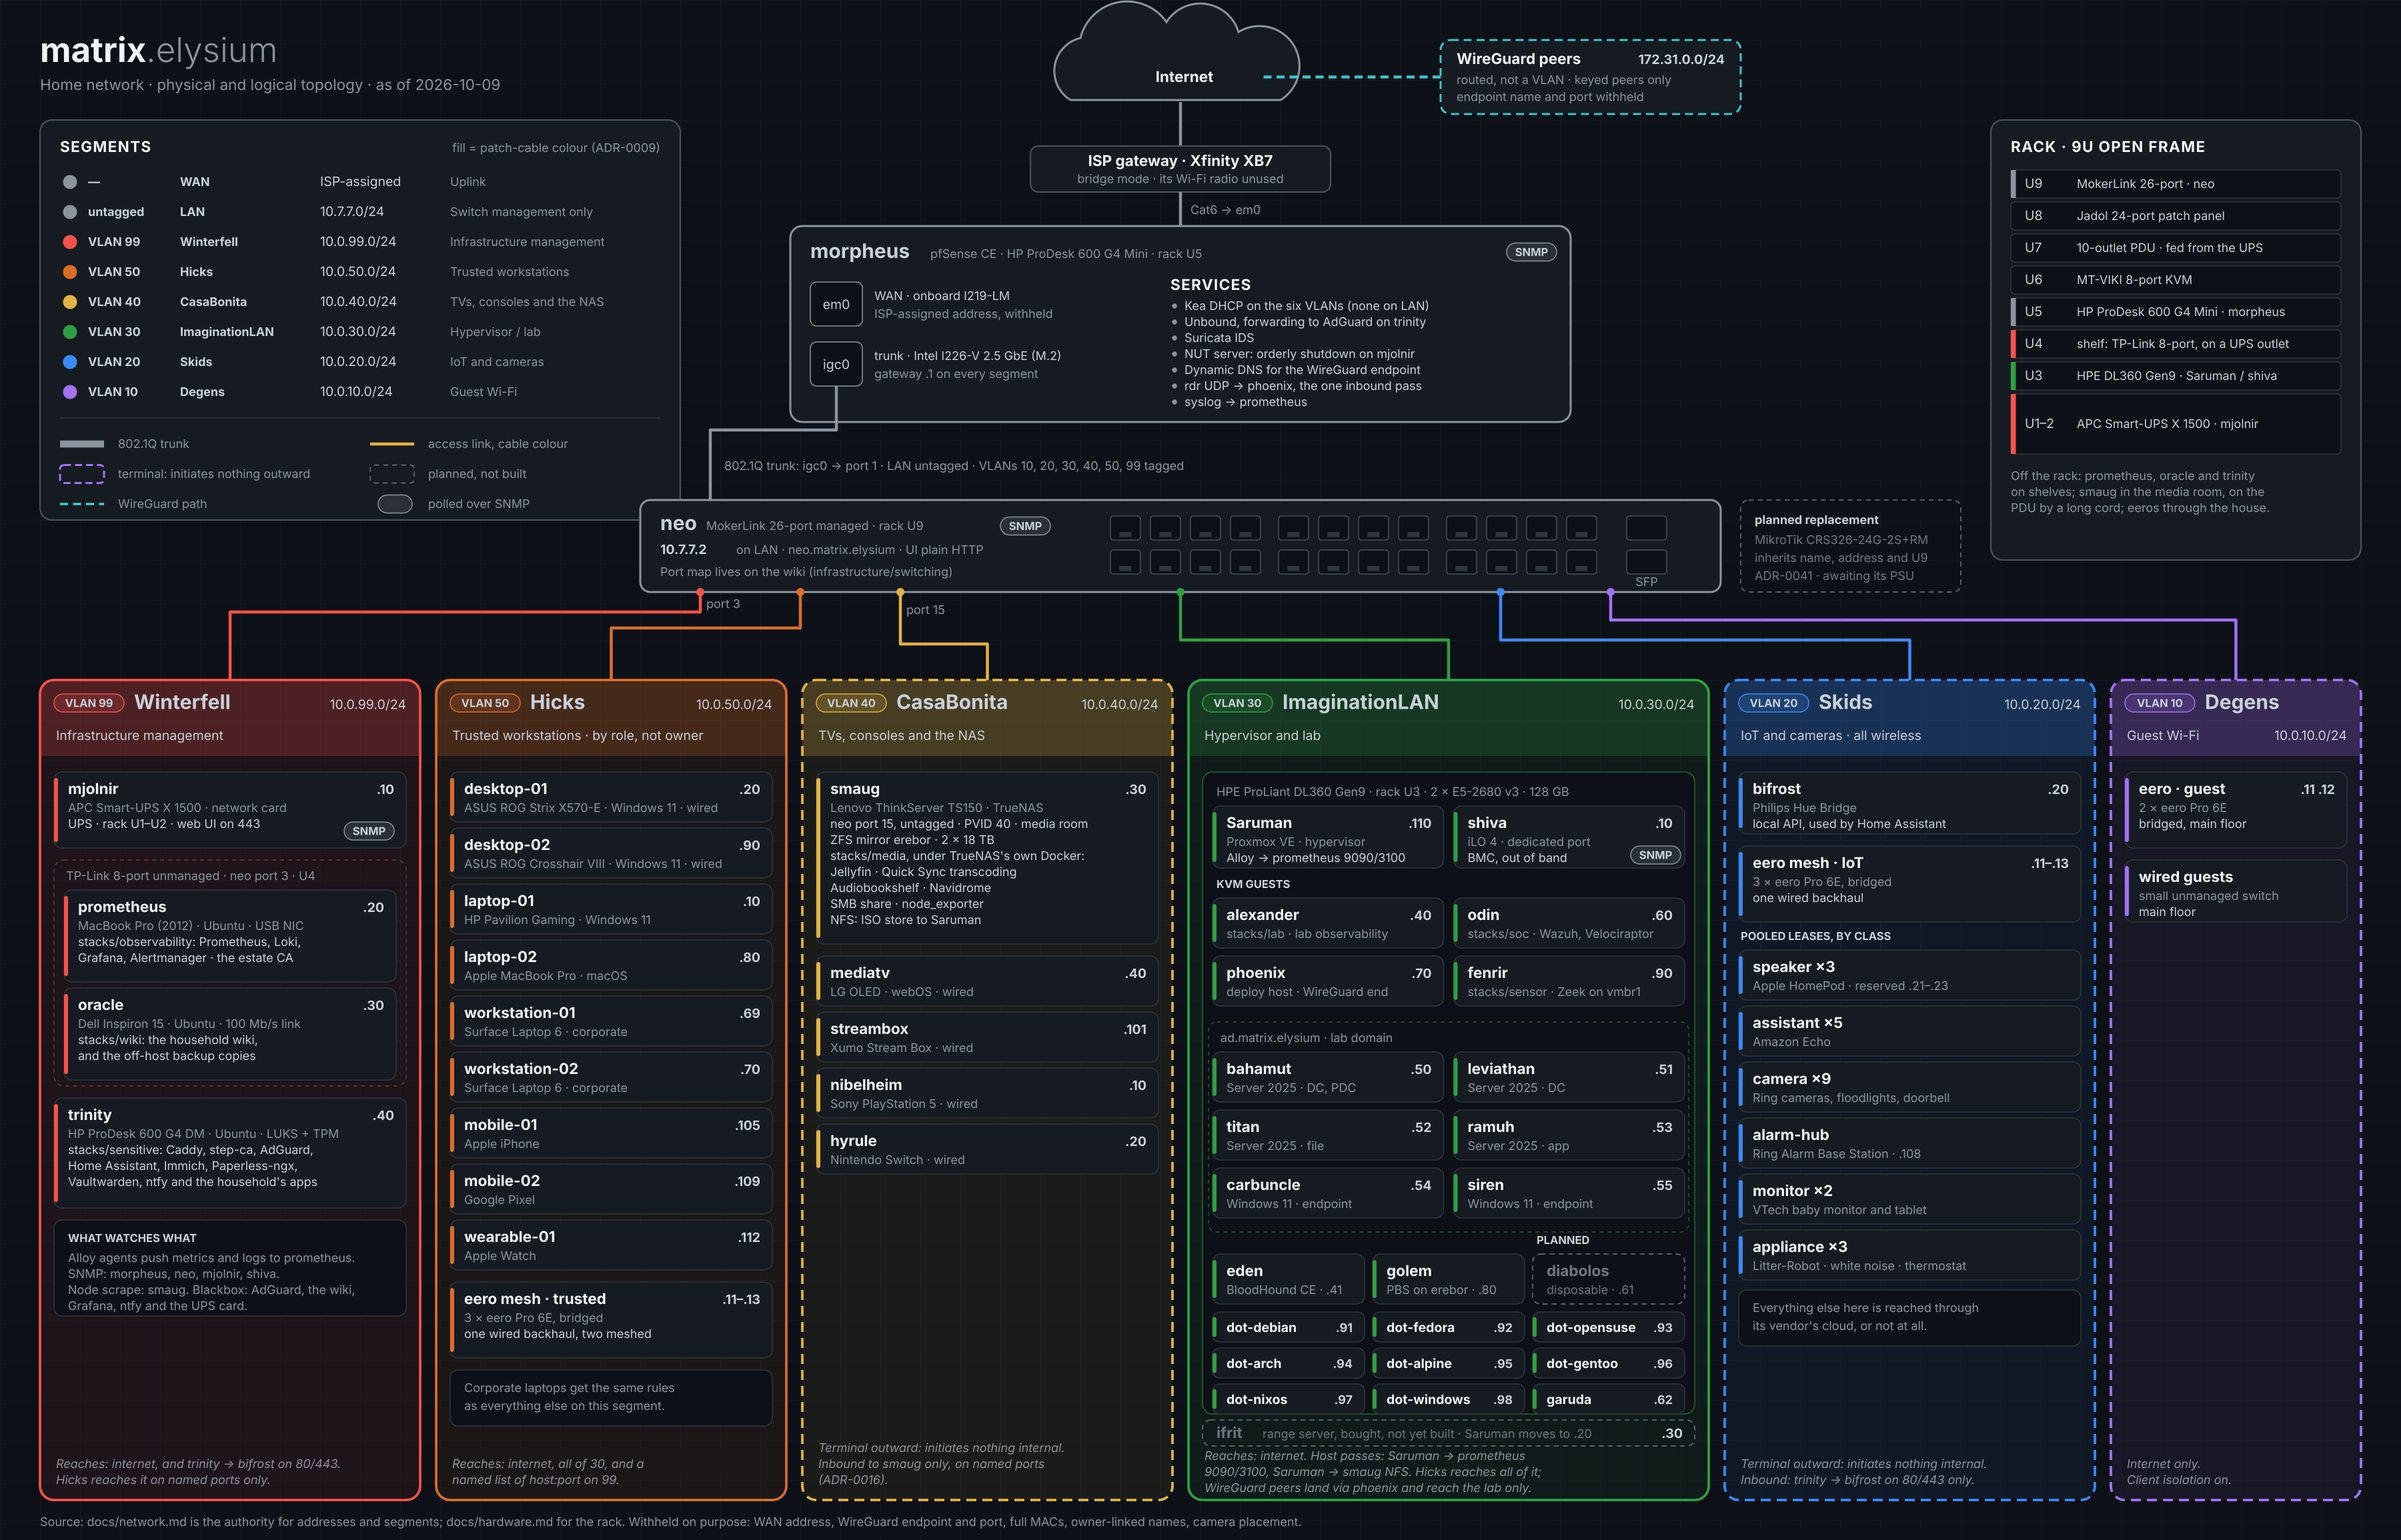
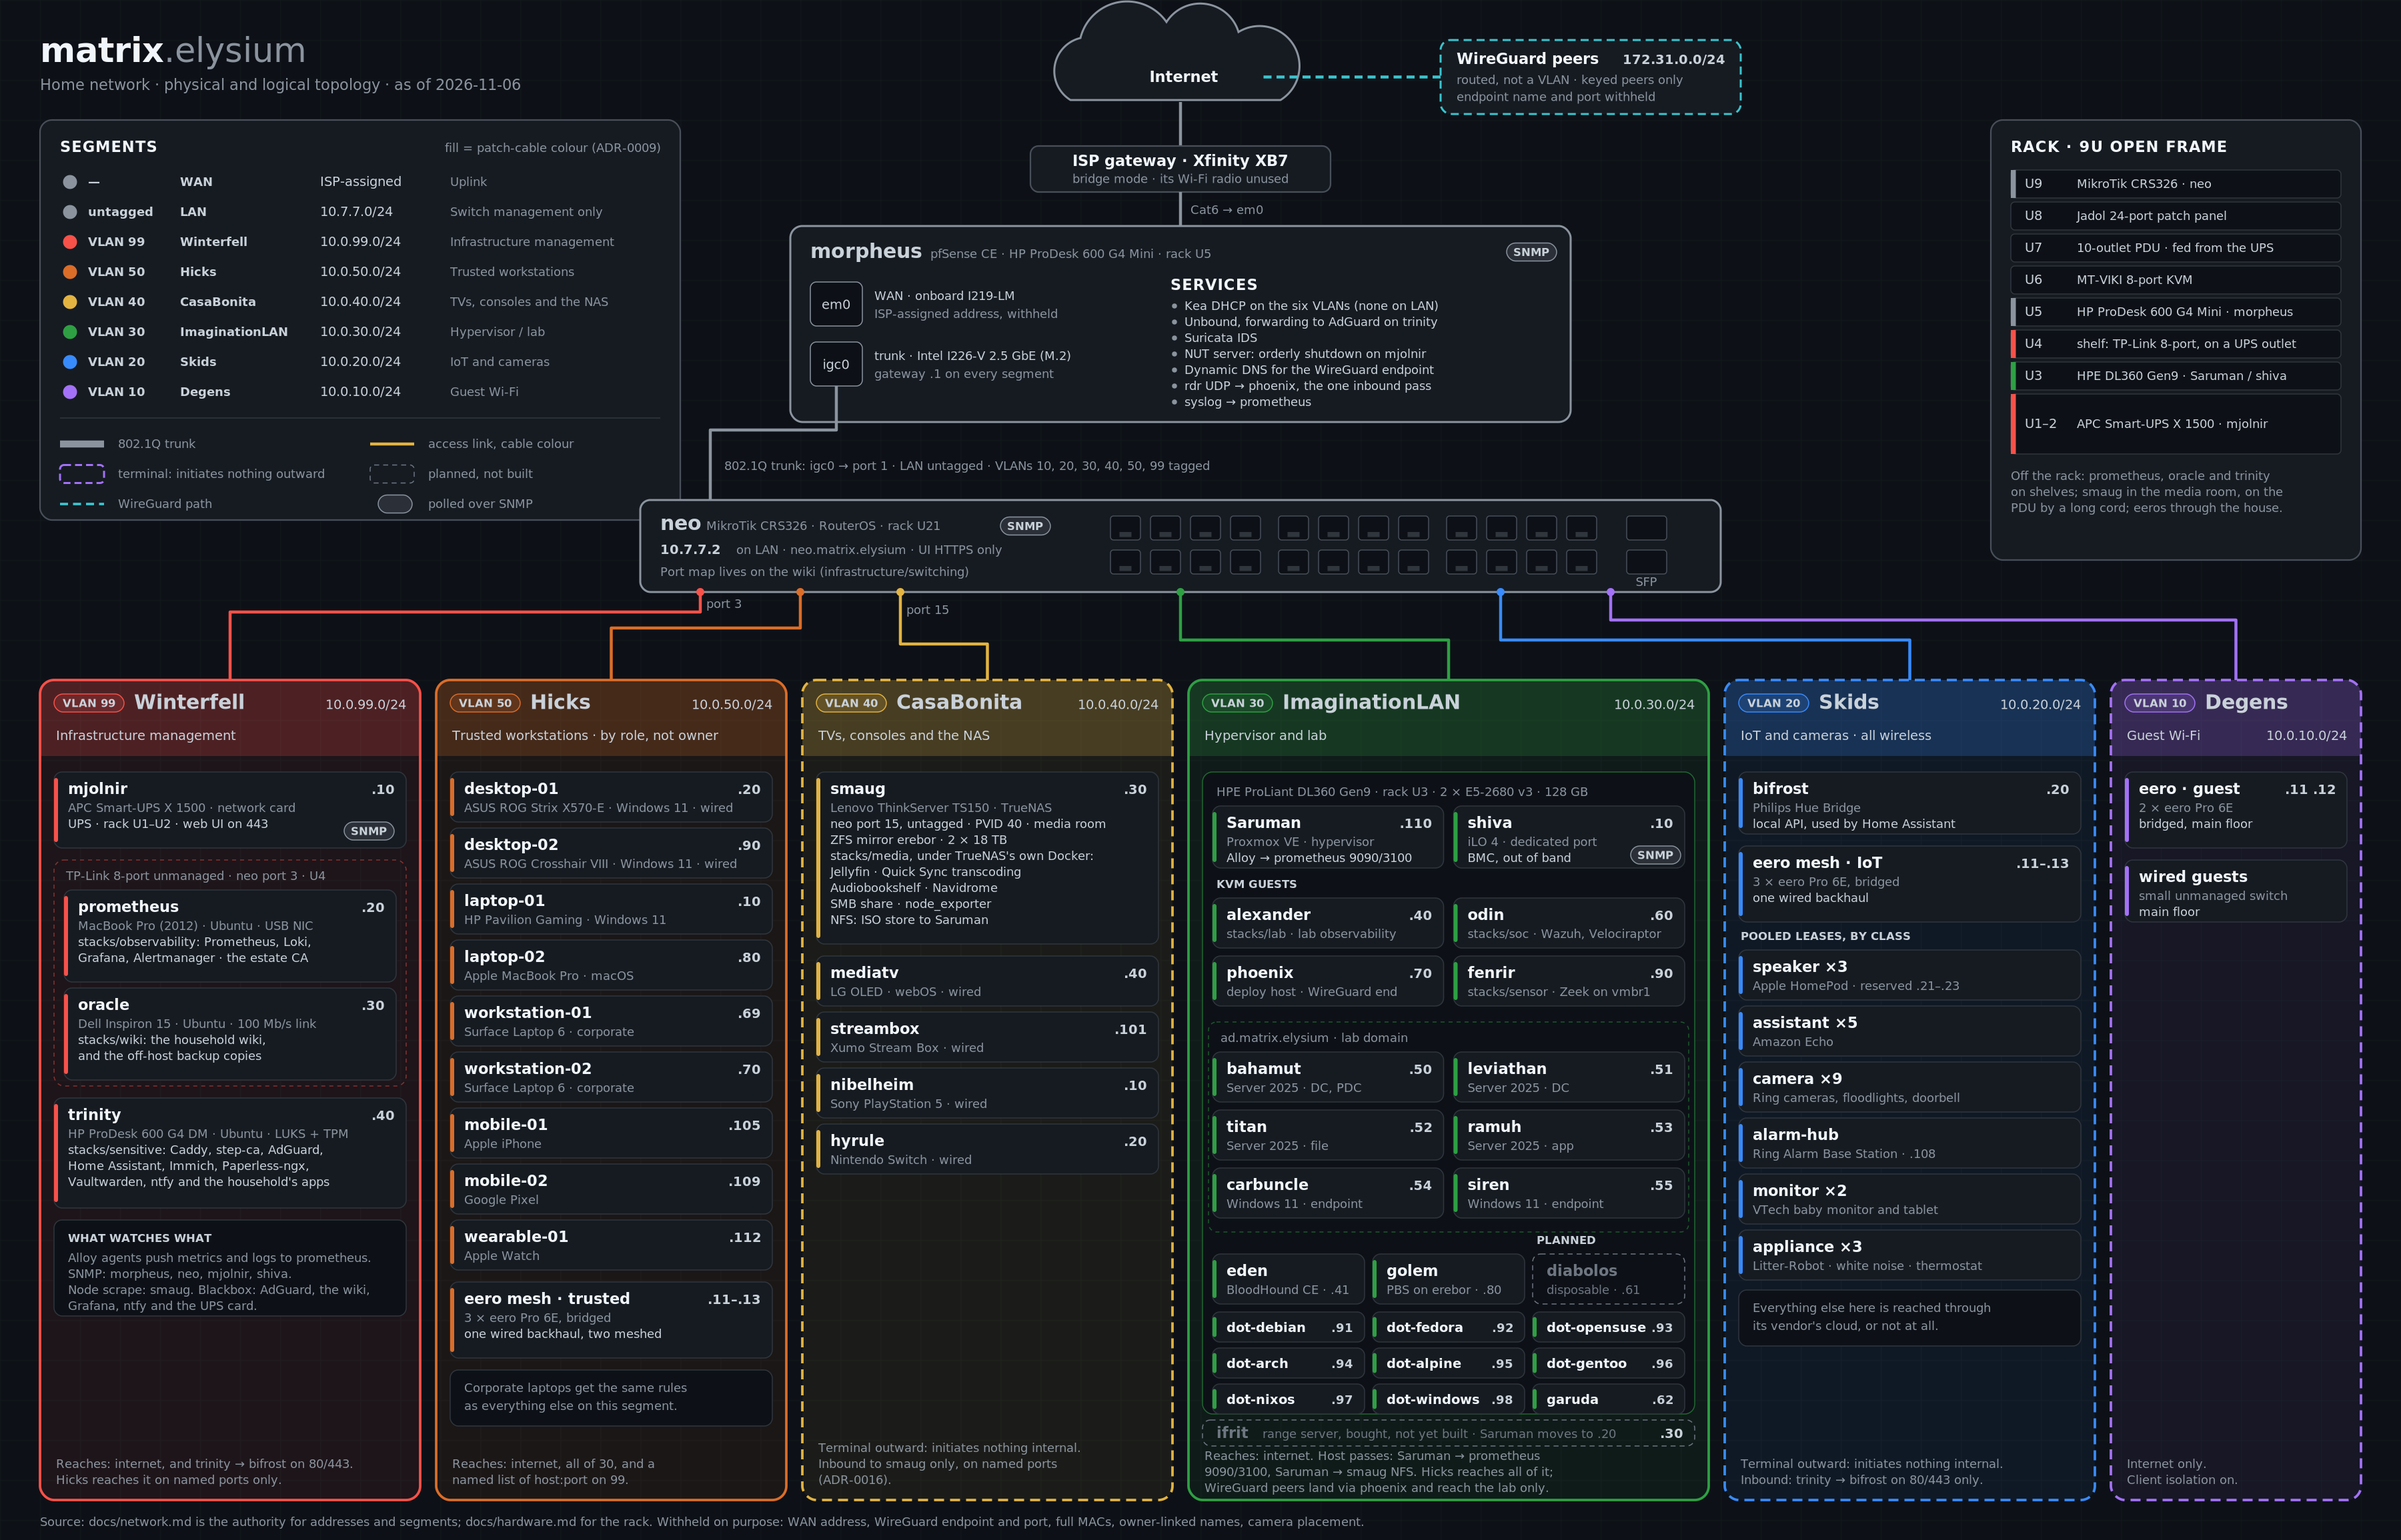
docs(neo): U21, an HTTPS-only label, and the diagram re-rendered (#444, #919)
Follow-ups to #1299 carried over from #653, which it supersedes:
- network.md's neo row says Rack U21: the swap shared the 32U move's
  window, and the CRS326 was racked at U21 on 2026-10-12.
- The diagram's neo label says rack U21 and "UI HTTPS only". It still said
  plain HTTP, which the live check on 2026-11-06 contradicts (443 answers,
  80 times out). The date line moves to 2026-11-06.
- network.png re-rendered from the SVG at 1.5x (cairosvg).

The diagram's rack panel and every other host's location are #1300's.

diff --git a/docs/network.md b/docs/network.md
@@ -111,7 +111,7 @@ truth for what a box actually does.
 | Hostname | IP | MAC (OUI) | Device | OS | Location | Role |
 | --- | --- | --- | --- | --- | --- | --- |
 | morpheus | `10.7.7.1` | `02:26:26:xx:xx:xx` | HP ProDesk 600 G4 Mini | FreeBSD 16.0 | Rack U5 | Firewall |
-| neo | `10.7.7.2` | `48:8f:5a:xx:xx:xx` | MikroTik CRS326-24G-2S+RM | RouterOS 7 | Rack U9 | Switch |
+| neo | `10.7.7.2` | `48:8f:5a:xx:xx:xx` | MikroTik CRS326-24G-2S+RM | RouterOS 7 | Rack U21 | Switch |
 
 ### Notes
 
